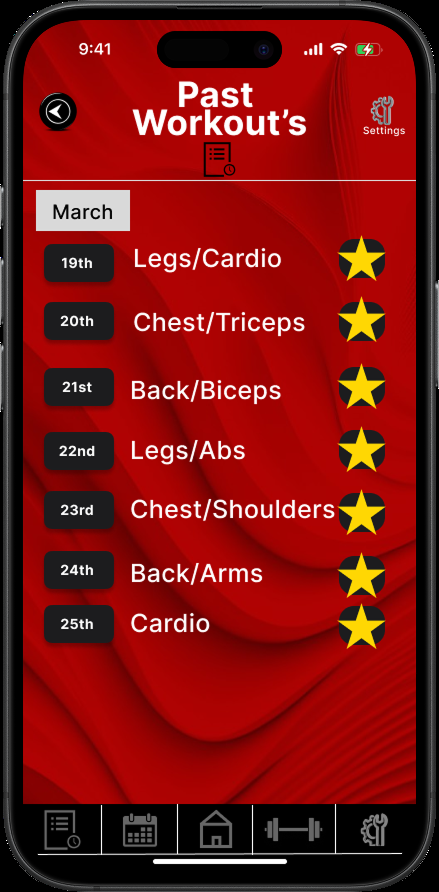
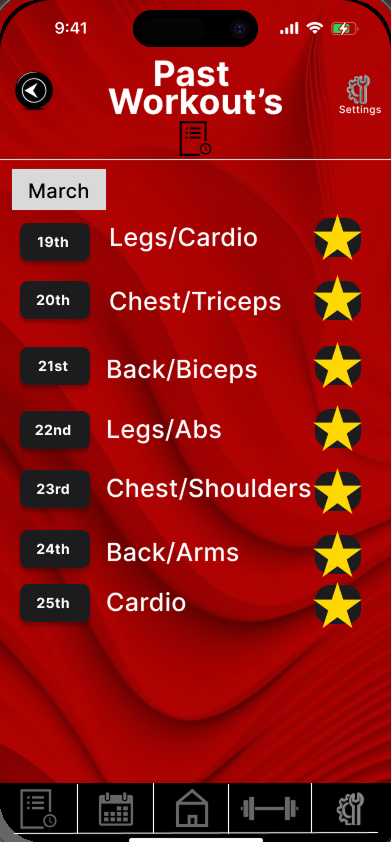
Tighten iPhone mockups and swap the Soak app-home frame.
Crop framed phone screens to the active UI so the silver rim and thick black bezel no longer dominate Soak, GymPal, Spotify, and Data Dignity. Replace the Soak app-home image with the new splash and round the phone figures a little more so leftover corner chrome does not read as a bulky outline.

diff --git a/docs/styles.css b/docs/styles.css
@@ -687,6 +687,10 @@ p:last-child {
   width: min(100% - 2rem, 22rem);
 }
 
+.figure.phone img {
+  border-radius: 2.35rem;
+}
+
 .figure.tall {
   width: min(100% - 2rem, 32rem);
 }
@@ -719,7 +723,7 @@ p:last-child {
 
 .figure-grid img {
   width: 100%;
-  border-radius: var(--radius);
+  border-radius: 1.75rem;
   border: 1px solid var(--line);
   background: var(--bg-2);
   box-shadow: var(--shadow);
